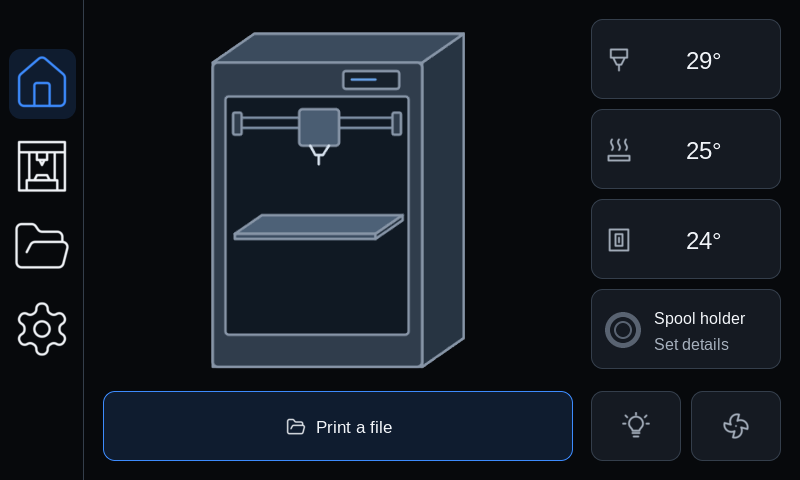
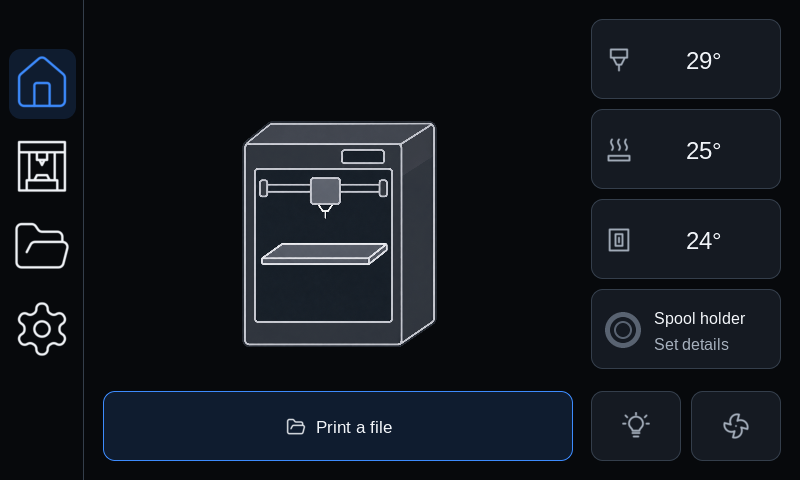
Match printer-only illustration to approved CFS artwork

Changed region(s): [[0.25, 0.0625, 0.5938, 0.7812]]

diff --git a/developer-tools/build_fixtures.py b/developer-tools/build_fixtures.py
@@ -3,8 +3,6 @@
 
 import shutil
 import subprocess
-import tempfile
-import xml.etree.ElementTree as ET
 from pathlib import Path
 
 ASSETS = Path(__file__).resolve().parent / "fixtures/assets"
@@ -29,17 +27,11 @@ def render(source, destination):
 def main():
     render(ASSETS / "demo-part.svg", ASSETS / "demo-part.png")
     render(ASSETS / "demo-part-dark.svg", ASSETS / "demo-part-dark.png")
-    # The reviewed CFS illustration is a production PNG, not an SVG export.
-    # Copy it so regenerating fixtures cannot restore the old illustration.
-    shutil.copyfile(ASSETS.parents[2] / "assets/printer-with-cfs.png", ASSETS / "demo-printer-combo.png")
-    tree = ET.parse(ASSETS.parents[2] / "assets/printer.svg")
-    root = tree.getroot()
-    root.remove(next(child for child in root if child.get("id") == "cfs"))
-    with tempfile.TemporaryDirectory(prefix="native-fixture-art-") as directory:
-        source = Path(directory) / "printer.svg"
-        tree.write(source, encoding="unicode")
-        render(source, ASSETS / "demo-printer-only.png")
-        render(source, ASSETS.parents[2] / "assets/printer-without-cfs.png")
+    # Production PNGs are the reviewed pair; preview generation must not
+    # replace either illustration with an older SVG export.
+    for source, target in (("printer-with-cfs.png", "demo-printer-combo.png"),
+                           ("printer-without-cfs.png", "demo-printer-only.png")):
+        shutil.copyfile(ASSETS.parents[2] / "assets" / source, ASSETS / target)
 
 
 if __name__ == "__main__":

diff --git a/developer-tools/README.md b/developer-tools/README.md
@@ -367,11 +367,11 @@ the actual LVGL tree. Review screenshots at native size as well as running tests
 Production icons/fonts are generated by `build_assets.py` as part of `build.sh`.
 Its Node dependencies are pinned in `package.json` and `package-lock.json`.
 
-The approved printer-with-CFS illustration is `assets/printer-with-cfs.png`.
-The fixture generator copies it unchanged into the desktop preview assets.
-`assets/printer.svg` supplies the without-CFS illustration; its CFS group is
-omitted when exporting that image. The backend selects the bundled image
-automatically from CFS presence. Image paths are not printer configuration settings.
+The approved printer illustrations are `assets/printer-with-cfs.png` and
+`assets/printer-without-cfs.png`. They share the same printer design, perspective
+and placement. The fixture generator copies both unchanged into the desktop
+preview assets. The backend selects the bundled image automatically from
+CFS presence. Image paths are not printer configuration settings.
 
 Preview artwork has its own generator. After editing fixture SVGs, regenerate
 their committed PNGs; after changing visible layouts, refresh the user README's

diff --git a/developer-tools/fixtures/README.md b/developer-tools/fixtures/README.md
@@ -5,8 +5,8 @@ project-authored artwork, not a saved printer configuration.
 
 - `cases/`: small JSON recipes naming a scenario, opening page and optional clicks.
 - `assets/`: the example three-part print and printer illustrations, as SVG sources
-  and ready-to-use PNGs. The shared printer SVG lives in `touchscreen/assets/printer.svg`
-  and produces both CFS variants for the runtime and previews.
+  and ready-to-use PNGs. The matching printer PNGs live in `touchscreen/assets/`
+  and are copied unchanged into the previews.
 
 Run a case from the repository root:
 
@@ -57,7 +57,8 @@ examples. They are not hardware profiles or configuration files to install.
 
 ## Rebuild artwork
 
-After editing the SVG sources, regenerate and commit the corresponding PNGs:
+After editing SVG examples or replacing either production printer PNG, refresh
+and commit the preview copies:
 
 ```sh
 python3 touchscreen/developer-tools/build_fixtures.py
